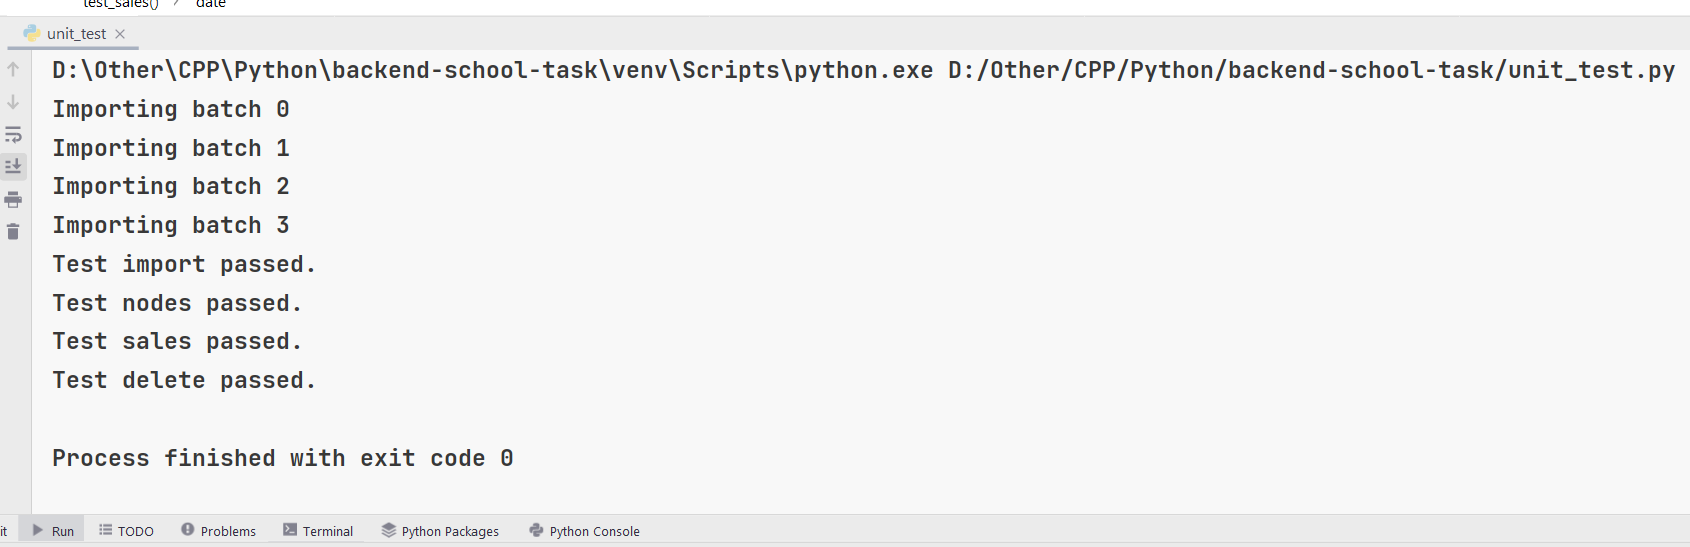
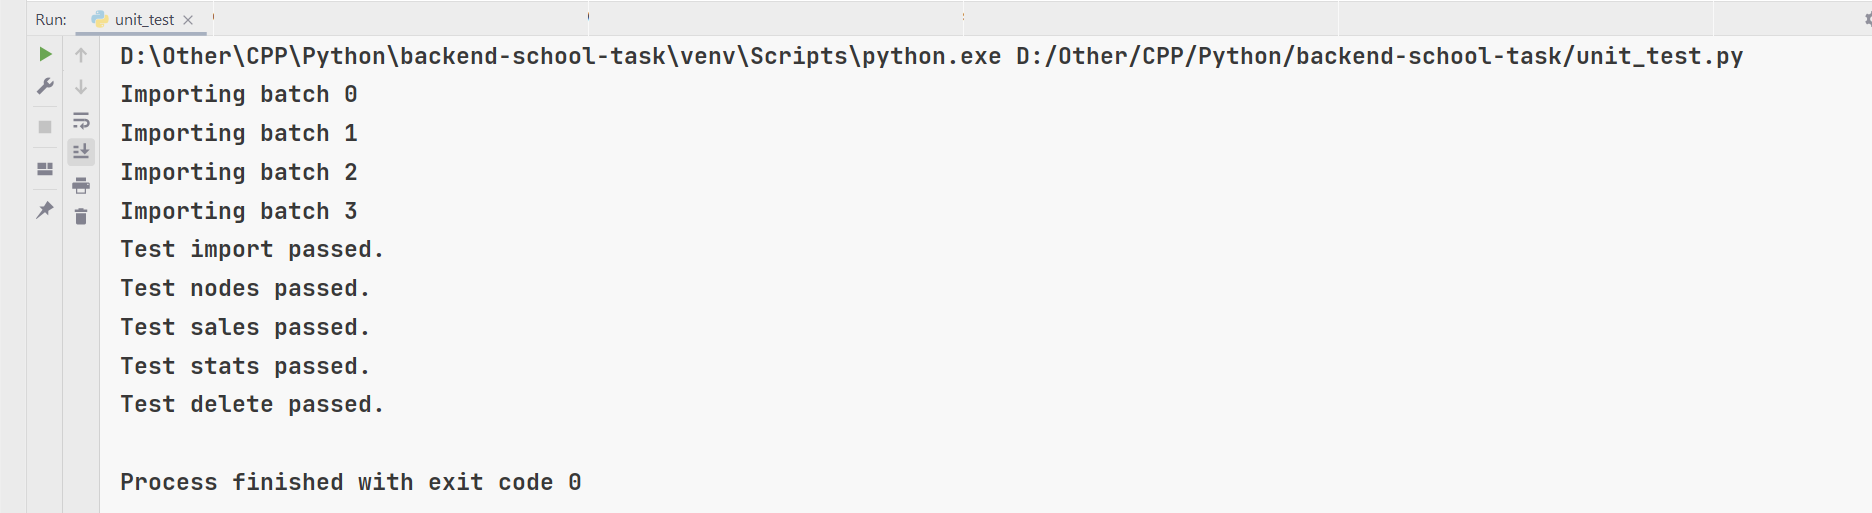
Lots of new tests

diff --git a/tests/test_stats.py b/tests/test_stats.py
@@ -1,0 +1,56 @@
+import pytest
+from rest_framework.test import APIClient
+
+from .data import DATA_1, DATA_2, DATA_3, DATA_4, DATA_5, DATA_TO_UPDATE
+
+client: APIClient = APIClient()
+
+
+@pytest.mark.django_db
+def test_statistics_story_after_double_updating():
+    response = client.post(path='/imports', data=DATA_1, format='json')
+    assert response.status_code == 200
+
+    response = client.post(path='/imports', data=DATA_2, format='json')
+    assert response.status_code == 200
+
+    response = client.post(path='/imports', data=DATA_3, format='json')
+    assert response.status_code == 200
+
+    response = client.post(path='/imports', data=DATA_4, format='json')
+    assert response.status_code == 200
+
+    response = client.post(path='/imports', data=DATA_5, format='json')
+    assert response.status_code == 200
+
+    response = client.post(path='/imports', data=DATA_TO_UPDATE, format='json')
+    assert response.status_code == 200
+
+    response = client.get(path='/node/74b81fda-9cdc-4b63-8927-c978afed5cf4/statistic', format='json')
+    assert len(response.data) == 3
+
+    response = client.get(path='/node/1cc0129a-2bfe-474c-9ee6-d435bf5fc8f2/statistic', format='json')
+    assert len(response.data) == 6
+
+
+@pytest.mark.django_db
+def test_invalid_requests():
+    response = client.get(path='/node/74b81fda/statistic')
+    assert response.status_code == 400
+    assert response.data['code'] == 400
+    assert response.data['message'] == 'Validation Failed'
+
+    response = client.get(path='/node/74b81fda-9cdc-4b63-8927-c978afed5cf4/statistic?dateStart=qi4yg35yu')
+    assert response.status_code == 400
+    assert response.data['code'] == 400
+    assert response.data['message'] == 'Validation Failed'
+
+    response = client.get(path='/node/74b81fda-9cdc-4b63-8927-c978afed5cf4/statistic?dateEnd=qi4yg35yu')
+    assert response.status_code == 400
+    assert response.data['code'] == 400
+    assert response.data['message'] == 'Validation Failed'
+
+    response = client.get(path='/node/74b81fda-9cdc-4b63-8927-c978afed5cf4/statistic?')
+    assert response.status_code == 404
+    assert response.data['code'] == 404
+    assert response.data['message'] == 'Item not found'

diff --git a/tests/test_some_more_complex_cases.py b/tests/test_some_more_complex_cases.py
@@ -1,0 +1,47 @@
+import pytest
+
+from .data import DATA_1, DATA_2, DATA_4, DATA_3, DATA_5, DATA_TO_UPDATE, DATA_TO_MOVE_FROM_CATEGORY
+from rest_framework.test import APIClient
+
+
+client: APIClient = APIClient()
+
+@pytest.mark.django_db
+def test_moving_out_from_category():
+    response = client.post(path='/imports', data=DATA_1, format='json')
+    assert response.status_code == 200
+
+    response = client.post(path='/imports', data=DATA_2, format='json')
+    assert response.status_code == 200
+
+    response = client.post(path='/imports', data=DATA_3, format='json')
+    assert response.status_code == 200
+
+    response = client.post(path='/imports', data=DATA_4, format='json')
+    assert response.status_code == 200
+
+    response = client.post(path='/imports', data=DATA_5, format='json')
+    assert response.status_code == 200
+
+    response = client.post(path='/imports', data=DATA_TO_UPDATE, format='json')
+    assert response.status_code == 200
+
+    response = client.get(path='/nodes/1cc0129a-2bfe-474c-9ee6-d435bf5fc8f2')
+    assert response.status_code == 200
+    assert response.data['price'] == 5200
+
+    response = client.get(path='/nodes/069cb8d7-bbdd-47d3-ad8f-82ef4c269df1')
+    assert len(response.data['children']) == 2
+    assert response.status_code == 200
+
+    response = client.post(path='/imports', data=DATA_TO_MOVE_FROM_CATEGORY, format='json')
+    assert response.status_code == 200
+
+    response = client.get(path='/nodes/1cc0129a-2bfe-474c-9ee6-d435bf5fc8f2')
+    assert response.status_code == 200
+    assert response.data['price'] == 6500
+
+    response = client.get(path='/nodes/069cb8d7-bbdd-47d3-ad8f-82ef4c269df1')
+    assert response.status_code == 200
+    assert response.data['price'] == (33000 // 5)
+    assert len(response.data['children']) == 3

diff --git a/tests/test_sales.py b/tests/test_sales.py
@@ -1,6 +1,6 @@
 import pytest
 
-from .data import DATA_1, DATA_2
+from .data import DATA_1, DATA_2, DATA_4, DATA_3, DATA_5
 from rest_framework.test import APIClient
 
 
@@ -8,7 +8,7 @@ client: APIClient = APIClient()
 
 
 @pytest.mark.django_db
-def test_valid_imports():
+def test_on_valid_imports():
     response = client.post(path='/imports', data=DATA_1, format='json')
     assert response.status_code == 200
 
@@ -20,3 +20,35 @@ def test_valid_imports():
 
     response = client.get(path='/sales?date=hetgbtr')
     assert response.status_code == 400
+
+
+@pytest.mark.django_db
+def test_on_valid_imports():
+    response = client.post(path='/imports', data=DATA_1, format='json')
+    assert response.status_code == 200
+
+    response = client.post(path='/imports', data=DATA_2, format='json')
+    assert response.status_code == 200
+
+    response = client.post(path='/imports', data=DATA_3, format='json')
+    assert response.status_code == 200
+
+    response = client.post(path='/imports', data=DATA_4, format='json')
+    assert response.status_code == 200
+
+    response = client.post(path='/imports', data=DATA_5, format='json')
+    assert response.status_code == 200
+
+    response = client.get(path='/sales?date=2022-04-07T16:00:00.000Z', format='json')
+    assert response.status_code == 200
+    assert len(response.data) == 1
+
+    response = client.get(path='/sales?date=202204-07T16:00:00.000Z', format='json')
+    assert response.status_code == 400
+    assert response.data['message'] == 'Validation Failed'
+    assert response.data['code'] == 400
+
+    response = client.get(path='/sales?dat', format='json')
+    assert response.status_code == 400
+    assert response.data['message'] == 'Validation Failed'
+    assert response.data['code'] == 400

diff --git a/tests/test_delete.py b/tests/test_delete.py
@@ -1,7 +1,7 @@
 import pytest
 from rest_framework.test import APIClient
 
-from .data import DATA_1, DATA_2
+from .data import DATA_1, DATA_2, DATA_3, DATA_4, DATA_5
 
 client: APIClient = APIClient()
 
@@ -32,5 +32,27 @@ def test_updating_after_deleting():
     response = client.post(path='/imports', data=DATA_2, format='json')
     assert response.status_code == 200
 
-    response = client.delete(path='/delete/b1d8fd7d-2ae3-47d5-b2f9-0f094af800d4')
+    response = client.post(path='/imports', data=DATA_3, format='json')
     assert response.status_code == 200
+
+    response = client.post(path='/imports', data=DATA_4, format='json')
+    assert response.status_code == 200
+
+    response = client.post(path='/imports', data=DATA_5, format='json')
+    assert response.status_code == 200
+
+    response = client.delete(path='/delete/d515e43f-f3f6-4471-bb77-6b455017a2d2', format='json')
+    assert response.status_code == 200
+
+    response = client.get(path='/nodes/1cc0129a-2bfe-474c-9ee6-d435bf5fc8f2', format='json')
+    assert response.data['price'] == 5100
+
+    response = client.delete(path='/delete/1cc0129a-2bfe-474c-9ee6-d435bf5fc8f2', format='json')
+    assert response.status_code == 200
+
+    response = client.delete(path='/delete/1cc0129a-2bfe-474c-9ee6-d435bf5fc8f2', format='json')
+    assert response.status_code == 404
+
+    response = client.get(path='/nodes/069cb8d7-bbdd-47d3-ad8f-82ef4c269df1', format='json')
+    assert response.data['price'] is None
+

diff --git a/tests/test_imports.py b/tests/test_imports.py
@@ -1,7 +1,7 @@
 import pytest
 from rest_framework.test import APIClient
 
-from .data import INVALID, VALID
+from .data import INVALID, VALID, DATA_1, DATA_2, DATA_3, DATA_4, DATA_5
 
 client: APIClient = APIClient()
 
@@ -9,12 +9,28 @@ client: APIClient = APIClient()
 @pytest.mark.django_db
 def test_valid_imports():
     response = client.post(path='/imports', data=VALID, format='json')
-
     assert response.status_code == 200
 
 
 @pytest.mark.django_db
 def test_invalid_imports():
     response = client.post(path='/imports', data=INVALID, format='json')
-
     assert response.status_code == 400
+
+
+@pytest.mark.django_db
+def test_just_correct_import():
+    response = client.post(path='/imports', data=DATA_1, format='json')
+    assert response.status_code == 200
+
+    response = client.post(path='/imports', data=DATA_2, format='json')
+    assert response.status_code == 200
+
+    response = client.post(path='/imports', data=DATA_3, format='json')
+    assert response.status_code == 200
+
+    response = client.post(path='/imports', data=DATA_4, format='json')
+    assert response.status_code == 200
+
+    response = client.post(path='/imports', data=DATA_5, format='json')
+    assert response.status_code == 200

diff --git a/tests/data.py b/tests/data.py
@@ -109,5 +109,31 @@ DATA_5: dict = {
             'price': 2300
         }
     ],
-    'updateDate': '2022-04-06T16:00:00.000Z'
+    'updateDate': '2022-04-07T16:00:00.000Z'
+}
+
+DATA_TO_UPDATE: dict = {
+    'items': [
+        {
+            'type': 'OFFER',
+            'name': 'Gugle Pixel 6',
+            'id': '74b81fda-9cdc-4b63-8927-c978afed5cf4',
+            'parentId': '1cc0129a-2bfe-474c-9ee6-d435bf5fc8f2',
+            'price': 2600
+        }
+    ],
+    'updateDate': '2022-06-06T16:00:00.000Z'
+}
+
+DATA_TO_MOVE_FROM_CATEGORY: dict = {
+    'items': [
+        {
+            'type': 'OFFER',
+            'name': 'Gugle Pixel 6',
+            'id': '74b81fda-9cdc-4b63-8927-c978afed5cf4',
+            'parentId': '069cb8d7-bbdd-47d3-ad8f-82ef4c269df1',
+            'price': 5000
+        }
+    ],
+    'updateDate': '2022-06-08T16:00:00.000Z'
 }

diff --git a/tests/test_nodes.py b/tests/test_nodes.py
@@ -46,4 +46,11 @@ def test_nodes():
 
     response = client.get(path='/nodes/d515e43f-f3f8-4471-bb77-6b455071a2d3')
     assert response.status_code == 404
+    assert response.data['code'] == 404
+    assert response.data['message'] == 'Item not found'
+
+    response = client.get(path='/nodes/d515e43ff84471bb776b455071a2d3')
+    assert response.status_code == 400
+    assert response.data['code'] == 400
+    assert response.data['message'] == 'Validation Failed'
 

diff --git a/shop/utils.py b/shop/utils.py
@@ -110,7 +110,7 @@ def update_parents_date_after_item_updating(nexts_initial, date: str) -> None:
 
     while len(nexts) != 0:
         parent = nexts[0]
-        print(f'UPDATING {parent.name} from {parent.date} to {date}')
+        #print(f'UPDATING {parent.name} from {parent.date} to {date}')
         parent.date = date
         parent.save()
         nexts = ShopUnit.objects.filter(id=parent.parentId)

diff --git a/unit_test.py b/unit_test.py
@@ -6,7 +6,7 @@ import urllib.error
 import urllib.parse
 import urllib.request
 
-API_BASEURL = 'https://responses-1920.usr.yandex-academy.ru'
+API_BASEURL = 'http://127.0.0.1:8000'
 
 
 ROOT_ID = "069cb8d7-bbdd-47d3-ad8f-82ef4c269df1"

diff --git a/Readme.md b/Readme.md
@@ -1,12 +1,14 @@
 # Test task to Back-End School 2022   
 ![coverage](./coverage.svg)
 
-### Technologies used:  
-* _Python_
-* _Django_
-* _Django Rest Framework_
-* _PostgreSQL_
-* _PyTest_     
+
+### Used:  
+* _[Python](https://www.python.org/)_
+* _[Django](https://www.djangoproject.com/)_
+* _[Django Rest Framework](https://www.django-rest-framework.org/)_
+* _[PostgreSQL](https://www.postgresql.org/)_  
+* _[Docker](https://www.docker.com/)_, _[Docker Compose](https://docs.docker.com/compose/)_
+* _[PyTest](https://pypi.org/project/pytest/)_ _(with coverage)_     
 
 
 ## _Some commands for comfortable run:_  
@@ -18,30 +20,27 @@
 4. `coverage report` or `coverage html` (for generating report in HTML)
 5. Remove `coverage-badge.svg` file and run `coverage-badge -o coverage.svg`  
 
-#### To run tests [unittest from task-source]:   
+#### To run tests [base tests from task-source]:   
 1. `pip install -r requirements.txt` 
-2. Run server in Docker (see below how to run in docker) or in usual way ()
+2. Run __server in Docker__ (see below how to run in docker) or __in usual way__ (also see below)
 3. `python unit_test.py`
 
 ### • To launch:
 #### To run application locally [no Docker] (you must have PostgreSQL installed and set up):  
 1. Activate venv
 2. `pip install -r requirements.txt`
-3. Change `DOCKER` field in `config.json` to `false`  
-4. `python manage.py makemigrations`  
+3. Change `DOCKER` field in `config.json` to `false`
 5. `python manage.py migrate`  
-6. `python manage.py runserver 0.0.0.0:80` (or other port, for example)  
+6. `python manage.py runserver 0.0.0.0:80` (or other port, for example 3000)  
 
 #### To run application locally [with Docker] (build & run)
-1. !!! If not having other images, it's better to build from scratch. `docker system prune -a --volumes`
-2. `(sudo) docker-compose up -d --build`
-3. `(sudo) docker-compose exec web python manage.py makemigrations`  
-4. `(sudo) docker-compose exec web python manage.py migrate`  
-5. [optional] `(sudo) docker-compose exec web python manage.py createsuperuser`
-6. `(sudo) docker-compose up`
+1. `(sudo) docker-compose up -d --build`  
+2. `(sudo) docker-compose exec web python manage.py migrate`  
+3. [optional] `(sudo) docker-compose exec web python manage.py createsuperuser`
+4. `(sudo) docker-compose up` _// to see logs_
 
 ### • To deploy:
-#### To set up remote machine:
+#### To set up remote machine for running the application:
 1. Set `docker` field to `true`/`false` (depending on if you're going to run in Docker)
 2. Push changes to GitHub repository `git add <...>`, `git commit -m <...>`, `git push`
 3. Connect to remote machine (via SSH) `ssh login@ip`. Following actions are done from remote machine
@@ -73,8 +72,9 @@
 ##### GitHub Actions demo:  
 ![GitHub Actions output](github-actions-demo.PNG)
 ##### Local tests pass results:  
-![Import, Nodes, Sales, Delete](local_test_results.PNG)  
-
+![All tests are passed](local_test_results.PNG)  
+##### Docker running on remote Linux machine  
+![App's logs](remote_machine_docker_running.PNG)
 &nbsp;  
 
 
